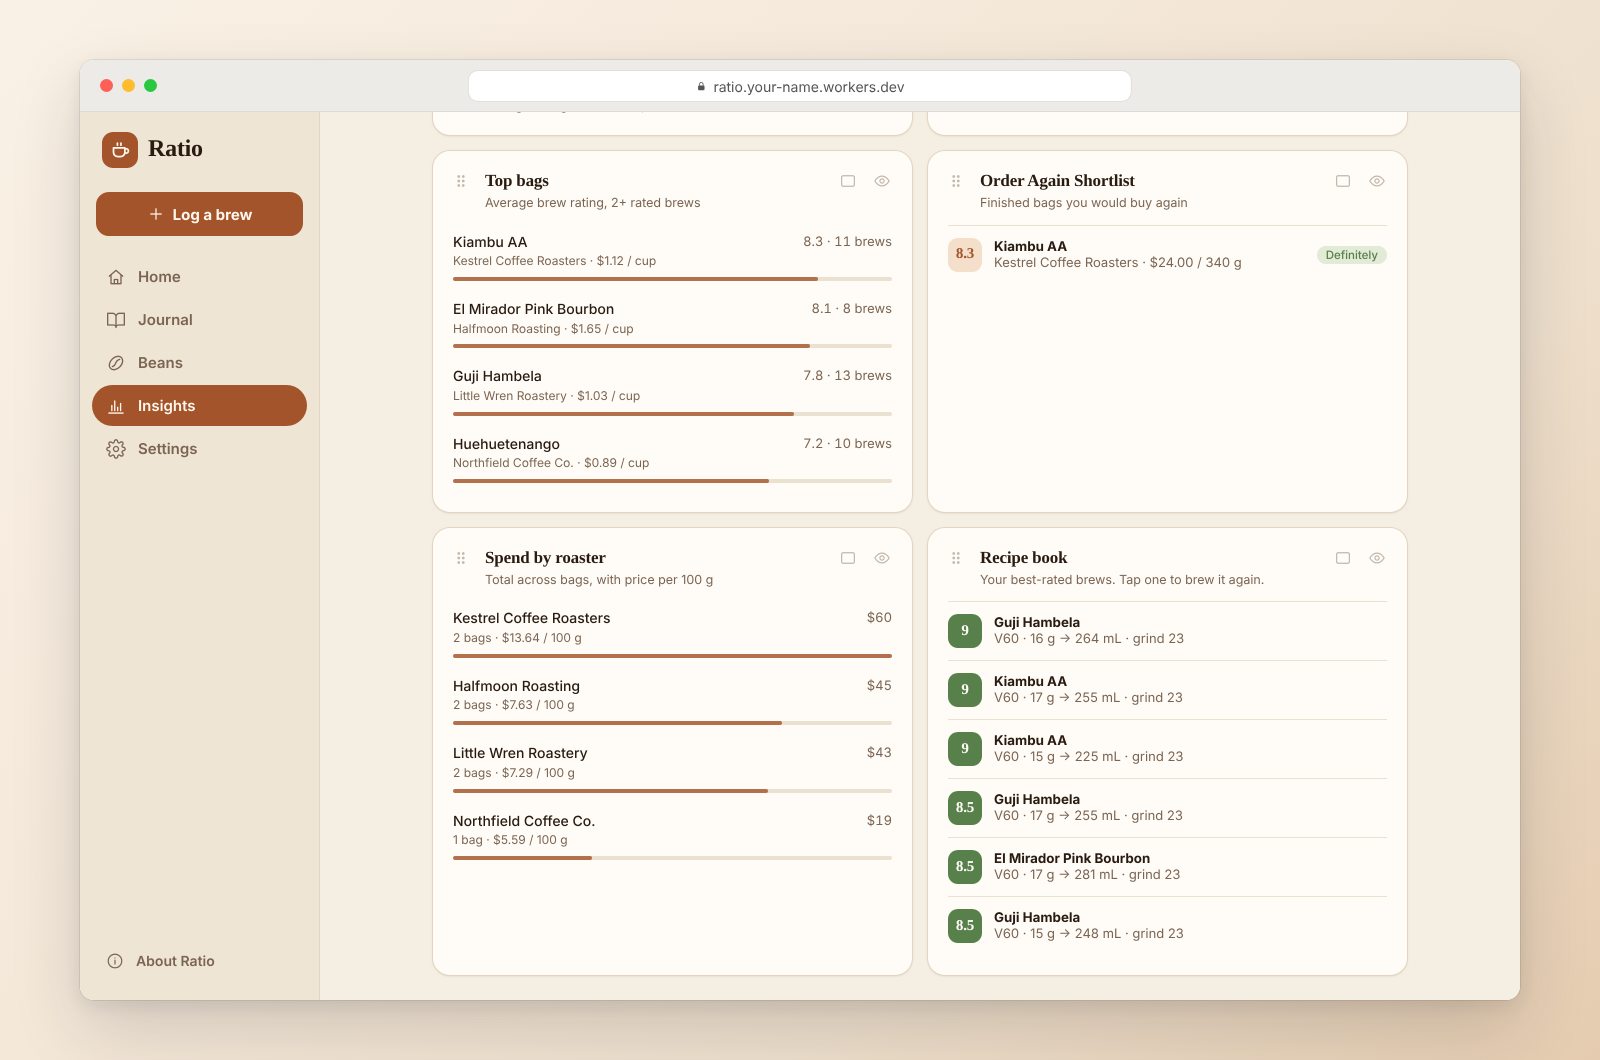
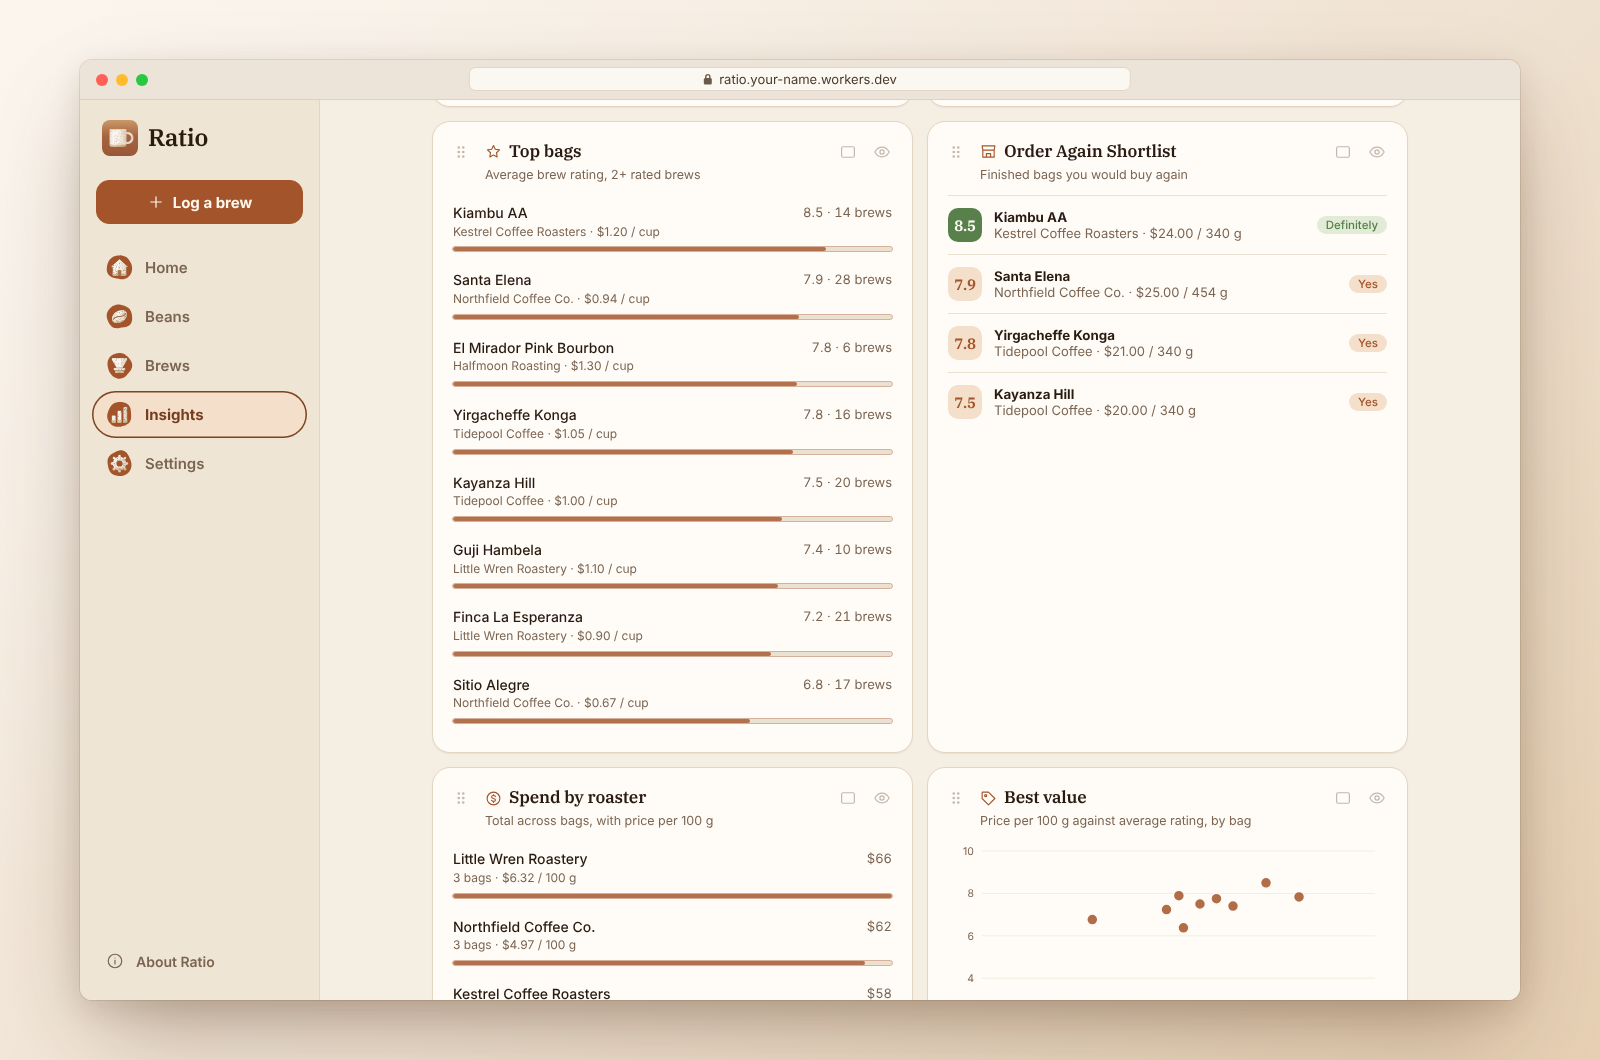
Ratio 1.2.3: README screenshots of the current app
Re-rendered every README image of Ratio's own UI from the current app with
fictional demo data, rebuilt the hero and AI chat composites with the current
icon and real MCP tool names, and updated alt text to match.

Claude-Session: https://claude.ai/code/session_01PCXyg1odGgu7ewnwgy9TLQ

diff --git a/README.md b/README.md
@@ -8,7 +8,7 @@ The payoff is the patterns: which grind settings rate best for this bag, which o
 
 [![Deploy to Cloudflare](docs/deploy-to-cloudflare.svg)](https://deploy.workers.cloudflare.com/?url=https://github.com/tyler-class/ratio)
 
-![Ratio on a laptop and a phone: home with stock runway, and a bag's dial-in chart and recent brews](docs/screenshots/hero.png)
+![Ratio on a laptop and a phone: home with stock runway and the bags on the bar, and a bag's brew history and best combination](docs/screenshots/hero.png)
 
 - **Log a brew in seconds.** Pick the bag and Ratio fills in your last recipe: grind, dose, ratio, temperature. Lock the ratio and the water follows the dose. Rate it now or later.
 - **Dial in.** Each bag shows how every grind setting rated, your best recipe, and last time’s “next time” note.
@@ -19,21 +19,21 @@ The payoff is the patterns: which grind settings rate best for this bag, which o
 - **Built for phones.** Install it to your home screen. It works like an app, and the last-loaded log stays readable offline.
 - **Yours.** It runs on your own Cloudflare account. The free plan is plenty. Your data stays in your database.
 
-**Ask your assistant, typed or out loud.** It logs a brew with the right water for your ratio, finds the grind that has worked best, suggests what to order next, and rates a brew you describe on your phone.
+**Ask your assistant, typed or out loud.** It logs a brew once you’ve confirmed the recipe, works out the water for your ratio, finds the grind that has worked best, suggests what to order next, and rates a brew you describe on your phone.
 
-![An AI assistant connected to Ratio: on a laptop it logs a V60 of the Kiambu AA, finds the best grind for the Guji and suggests what to order; on a phone it lists what's on the bar and rates a dictated brew](docs/screenshots/ai-chat.png)
+![An AI assistant connected to Ratio: on a laptop it reads back a V60 of the El Mirador and logs it once confirmed, finds the best grind for the Guji and suggests what to order; on a phone it lists what's on the bar and rates a dictated brew](docs/screenshots/ai-chat.png)
 
 One deployment is one coffee log.
 
 ## Screenshots
 
-![On a phone: every brew, rating a brew with the Extraction slider, and every bag](docs/screenshots/phones.png)
+![On a phone: every brew, rating a brew from 1 to 10 with its extraction and strength, and the bags you're drinking](docs/screenshots/phones.png)
 
 ### Logging a brew
 
-Pick the bag and the last recipe is filled in, with your best one a tap away. Lock the ratio and the water follows the dose.
+Pick the bag and Ratio starts from your best brew of it, with the last one a tap away. Lock the ratio and the water follows the dose.
 
-![Logging a brew on a phone: last time and the best recipe for the bag, then grind, dose and a locked 1:17 ratio](docs/screenshots/log-a-brew.png)
+![Logging a brew on a phone: starting from the bag's best brew, then grinder, grind, dose and water with a locked 1:17 ratio](docs/screenshots/log-a-brew.png)
 
 ### Brews
 
@@ -45,17 +45,17 @@ Pick the bag and the last recipe is filled in, with your best one a tap away. Lo
 
 ![Beans: every bag with its status, grams left, rating and buy-again verdict](docs/screenshots/beans.png)
 
-![A bag on a phone: average rating, grams used, price and cost per cup, its photo, every brew with it, and the Add a bag form](docs/screenshots/bag.png)
+![A bag on a phone: its status, details, grams left and cost, its brew history chart and best combination, and the Add a bag form](docs/screenshots/bag.png)
 
-![Roasters on a phone: each with its bags and average rating, and a roaster with its logo, details and bags](docs/screenshots/roasters.png)
+![Roasters on a phone: each with its logo, bags and average rating, and a roaster's metrics and bags](docs/screenshots/roasters.png)
 
 ### Insights
 
-![Insights: at a glance, the brewing calendar, brews per week and how you rate](docs/screenshots/insights.png)
+![Insights: at a glance, the coffee calendar, brews per week and how you rate](docs/screenshots/insights.png)
 
-![Insights: the taste explorer by origin, ratio vs rating, and dial-in accuracy by month](docs/screenshots/insights-taste.png)
+![Insights: average rating by origin, ratio vs rating, and dial-in accuracy by month](docs/screenshots/insights-taste.png)
 
-![Insights: top bags, the order again shortlist, spend by roaster and the recipe book](docs/screenshots/insights-more.png)
+![Insights: top bags, the order again shortlist, spend by roaster and best value](docs/screenshots/insights-more.png)
 
 ### Settings
 
